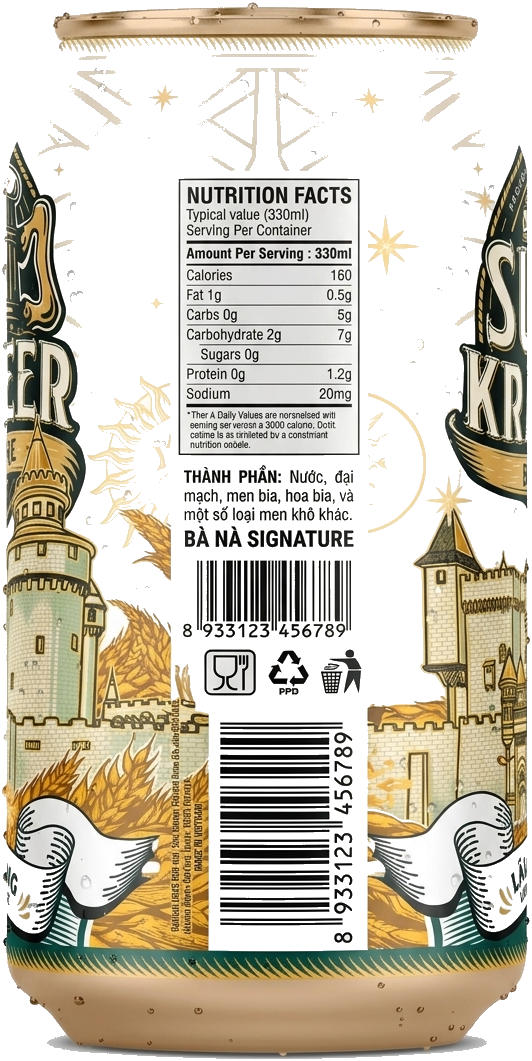
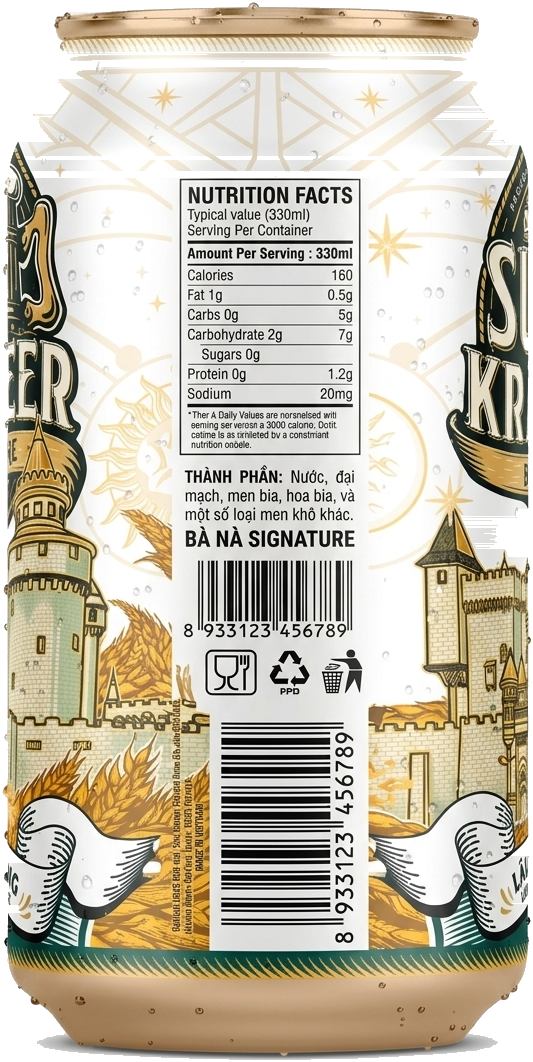
Sua dai nhoe khi lon xoay: va lo tach nen va lam min cho noi
HAI LOI, mot to mot nho.

1. Anh mat sau Lau Dai Mat Trang bi THUNG 37% dien tich lon. Than lon
   trang, mau gan het phong chup, nen phep tach nen an lem vao trong.
   Cho thung khong co mau de lay, ve ra thanh nhung vet ngang xe doc
   than lon — dung cai anh Khoa chup gui.

   Them buoc va lo (--dac): bong lon nhin ngang la mot khoi lien, moi
   diem nam giua mep trai va mep phai cua mot hang deu thuoc ve lon nen
   chi viec tra lai alpha. Con 1%, o may hang sat nap va day.

2. Dai noi hai anh bi boi ngang. Phan vo quanh goc +-pi/2 bi chup
   nghieng gan het co nen ca mot vong cung chi nam trong dam cot anh;
   xoay ra chinh dien thi dam cot ay phai trai kin may chuc cot man
   hinh, moi hang mot mau khac nhau bi keo dai ra thanh mot mo vach.

   Moi mat lon dung san mot ban da LAM MO DOC, chi dung o cho bi keo
   gian manh (do gian < 0,15). Lam mo doc truoc roi moi keo gian thi
   dai ay thanh mang mau chuyen muot, doc ra nhu phan vo dang cong
   khuat di. Nguong phai hep: de 0,4 thi giua luc quay ngang ca cai
   nhan cung bi lam mo chu khong rieng dai noi.

Do tren trinh duyet: doan bi boi ngang rong nhat trong ca cu quay, ca
ba loai, tu 15 cot xuong 0-1 cot tren be ngang 340. Toc do 11,6ms moi
khung ca luc quay lan luc lac.

Con lai: mot dai hep sat vien lon trong mot phan cu quay. Do la cho ca
hai anh deu khong co du lieu — muon het han thi can them anh chup o goc
90 va 270 do cho moi lon.

diff --git a/src/components/LonXoay.tsx b/src/components/LonXoay.tsx
@@ -37,9 +37,31 @@ const CHU_KY_LAC = 9000;
 /** Biên độ lắc, radian. Khoảng 23 độ mỗi bên. */
 const BIEN_LAC = 0.4;
 
+/** Bán kính làm mờ dọc, tính bằng hàng. Xem `diemMo`. */
+const BAN_KINH_MO = 6;
+/**
+ * Dưới mức giãn này thì bắt đầu chuyển sang bản đã làm mờ dọc.
+ *
+ * Để rộng tay (0,4) thì hỏng: giữa lúc lon quay qua ngang, độ giãn ở CHÍNH
+ * GIỮA thân lon cũng xuống quanh mức đó, nên cả cái nhãn bị làm mờ chứ không
+ * riêng dải nối — vừa xấu vừa tốn, mỗi khung mất thêm bốn phần nghìn giây.
+ * 0,15 chỉ bắt đúng chỗ vỏ lon bị chụp nghiêng gần hết cỡ.
+ */
+const NGUONG_GIAN = 0.15;
+
 /** Một mặt lon đã đặt vào khung chuẩn, kèm bóng lon của từng hàng. */
 interface Mat {
   diem: Uint8ClampedArray;
+  /**
+   * Bản đã làm mờ THEO CHIỀU DỌC, dùng riêng cho dải nối hai ảnh.
+   *
+   * Ở đó dăm cột ảnh phải trải kín mấy chục cột màn hình. Kéo giãn ngang thì
+   * màu của mỗi hàng bị bôi dài ra, mà hàng nào cũng khác hàng nào, nên hiện
+   * lên thành một mớ vạch ngang chồng chất — đúng cái dải nhoè nhìn thấy giữa
+   * thân lon. Làm mờ dọc trước rồi mới kéo giãn thì dải ấy thành một mảng màu
+   * chuyển mượt, đọc ra như phần vỏ đang cong khuất đi.
+   */
+  diemMo: Uint8ClampedArray;
   trai: Int16Array;
   phai: Int16Array;
   tam: Float32Array;
@@ -80,7 +102,35 @@ function doMat(ve: (g: CanvasRenderingContext2D) => void): Mat | null {
       ban[y] = (phai[y] + 1 - trai[y]) / 2;
     }
   }
-  return { diem, trai, phai, tam, ban };
+  // Làm mờ dọc: chỉ chạy một lần cho mỗi mặt lon.
+  const diemMo = new Uint8ClampedArray(diem.length);
+  for (let x = 0; x < KHUNG_W; x++) {
+    for (let y = 0; y < KHUNG_H; y++) {
+      let r = 0;
+      let g2 = 0;
+      let b = 0;
+      let n = 0;
+      const dau = Math.max(0, y - BAN_KINH_MO);
+      const cuoi = Math.min(KHUNG_H - 1, y + BAN_KINH_MO);
+      for (let k = dau; k <= cuoi; k++) {
+        const i = (k * KHUNG_W + x) * 4;
+        if (diem[i + 3] < 8) continue;
+        r += diem[i];
+        g2 += diem[i + 1];
+        b += diem[i + 2];
+        n++;
+      }
+      const d = (y * KHUNG_W + x) * 4;
+      if (n) {
+        diemMo[d] = r / n;
+        diemMo[d + 1] = g2 / n;
+        diemMo[d + 2] = b / n;
+      }
+      diemMo[d + 3] = diem[d + 3];
+    }
+  }
+
+  return { diem, diemMo, trai, phai, tam, ban };
 }
 
 /** Khung bao quanh phần đục của một ảnh, theo alpha. */
@@ -158,8 +208,14 @@ function layCot(
   y: number,
   xThuc: number,
   nen: number,
+  mo: number,
   ra: Float32Array,
 ): number {
+  // Chỉ đụng tới bản đã làm mờ khi thật sự cần: đó là một mảng gần một megabyte
+  // nữa, đọc vào cả lúc không dùng là thừa mà còn đẩy bộ nhớ đệm.
+  const diem = m.diem;
+  const diemMo = mo > 0 ? m.diemMo : m.diem;
+  const ro = 1 - mo;
   const dong = y * KHUNG_W;
   const mepT = m.trai[y];
   const mepP = m.phai[y];
@@ -178,10 +234,10 @@ function layCot(
       if (x < mepT) x = mepT;
       else if (x > mepP) x = mepP;
       const i = (dong + x) * 4;
-      const a = (m.diem[i + 3] / 255) * (k === 0 ? 1 - le : le);
-      ra[0] += m.diem[i] * a;
-      ra[1] += m.diem[i + 1] * a;
-      ra[2] += m.diem[i + 2] * a;
+      const a = (diem[i + 3] / 255) * (k === 0 ? 1 - le : le);
+      ra[0] += (diem[i] * ro + diemMo[i] * mo) * a;
+      ra[1] += (diem[i + 1] * ro + diemMo[i + 1] * mo) * a;
+      ra[2] += (diem[i + 2] * ro + diemMo[i + 2] * mo) * a;
       tong += a;
     }
   } else {
@@ -191,10 +247,10 @@ function layCot(
       if (x < mepT) x = mepT;
       else if (x > mepP) x = mepP;
       const i = (dong + x) * 4;
-      const a = m.diem[i + 3] / 255;
-      ra[0] += m.diem[i] * a;
-      ra[1] += m.diem[i + 1] * a;
-      ra[2] += m.diem[i + 2] * a;
+      const a = diem[i + 3] / 255;
+      ra[0] += (diem[i] * ro + diemMo[i] * mo) * a;
+      ra[1] += (diem[i + 1] * ro + diemMo[i + 1] * mo) * a;
+      ra[2] += (diem[i + 2] * ro + diemMo[i + 2] * mo) * a;
       tong += a;
     }
     tong /= soTia;
@@ -249,8 +305,11 @@ function veLon(kho: Kho, phi: number, bang: BangChieu, ra: ImageData) {
       const d = (dong + x) * 4;
       const doNen = nen[i];
 
-      let aTruoc = 0;
-      if (w <= 0 && doNen < 1.5) {
+      // Mức chuyển sang bản làm mờ dọc: 0 là dùng ảnh gốc, 1 là mờ hẳn.
+      const mo =
+        doNen >= NGUONG_GIAN ? 0 : (NGUONG_GIAN - doNen) / NGUONG_GIAN;
+
+      if (w <= 0 && doNen < 1.5 && mo === 0) {
         // Đường đi của phần lớn điểm ảnh: nhãn thuần, không nén. Viết thẳng ra
         // đây thay vì gọi `layCot` — hơn trăm nghìn lượt gọi mỗi khung hình,
         // riêng chi phí gọi hàm đã đủ tụt mất vài khung mỗi giây.
@@ -276,13 +335,41 @@ function veLon(kho: Kho, phi: number, bang: BangChieu, ra: ImageData) {
         out[d + 3] = tong * phu * 255;
         continue;
       }
+      if (w >= 1 && coSau && doNen < 1.5 && mo === 0) {
+        // Mặt sau thuần. Giữa lúc quay thì nửa lon là mặt sau, nên nhánh này
+        // cũng phải viết thẳng ra như nhánh mặt trước, không thì mất một nửa
+        // số điểm ảnh vào chi phí gọi hàm.
+        const xT = cxS - rS * u[i];
+        const san = Math.floor(xT);
+        const le = xT - san;
+        let xa = san;
+        if (xa < sau.trai[y]) xa = sau.trai[y];
+        else if (xa > sau.phai[y]) xa = sau.phai[y];
+        let xb = san + 1;
+        if (xb < sau.trai[y]) xb = sau.trai[y];
+        else if (xb > sau.phai[y]) xb = sau.phai[y];
+        const ia = (dong + xa) * 4;
+        const ib = (dong + xb) * 4;
+        const aa = (sau.diem[ia + 3] / 255) * (1 - le);
+        const ab = (sau.diem[ib + 3] / 255) * le;
+        const tong = aa + ab;
+        if (tong <= 0) continue;
+        const f = heSoSau[i] / tong;
+        out[d] = (sau.diem[ia] * aa + sau.diem[ib] * ab) * f;
+        out[d + 1] = (sau.diem[ia + 1] * aa + sau.diem[ib + 1] * ab) * f;
+        out[d + 2] = (sau.diem[ia + 2] * aa + sau.diem[ib + 2] * ab) * f;
+        out[d + 3] = tong * phu * 255;
+        continue;
+      }
+
+      let aTruoc = 0;
       if (w < 1) {
-        aTruoc = layCot(truoc, y, cx + r * u[i], doNen, mauTruoc);
+        aTruoc = layCot(truoc, y, cx + r * u[i], doNen, mo, mauTruoc);
       }
       let aSau = 0;
       if (w > 0 && coSau) {
         // Ảnh mặt sau là lon đã quay nửa vòng, nên đổi dấu vị trí ngang.
-        aSau = layCot(sau, y, cxS - rS * u[i], doNen, mauSau);
+        aSau = layCot(sau, y, cxS - rS * u[i], doNen, mo, mauSau);
       }
 
       const gop = aTruoc * (1 - w) + aSau * w;

diff --git a/src/lib/lonXoay.ts b/src/lib/lonXoay.ts
@@ -155,9 +155,14 @@ export interface BangChieu {
   /**
    * Độ nén tại chỗ: một điểm ảnh trên màn hình gánh bao nhiêu điểm ảnh nguồn.
    *
-   * Càng ra mép lon càng nén. Không tính tới thì chỗ nén chỉ lấy đúng một điểm
-   * nguồn, bỏ qua những điểm bên cạnh — sinh ra vệt răng cưa nhấp nháy trong
-   * lúc lon quay. Biết độ nén thì lấy trung bình đúng chừng ấy điểm.
+   * Lớn hơn 1 là NÉN — hay gặp ở sát mép lon. Không tính tới thì chỗ nén chỉ
+   * lấy đúng một điểm nguồn, bỏ qua những điểm bên cạnh, sinh vệt răng cưa
+   * nhấp nháy lúc lon quay. Biết độ nén thì lấy trung bình đúng chừng ấy điểm.
+   *
+   * Nhỏ hơn 1 là GIÃN, và giãn rất mạnh ở đúng chỗ nối hai ảnh: phần vỏ quanh
+   * góc ±π/2 bị chụp nghiêng gần hết cỡ nên cả một vòng cung chỉ nằm gọn trong
+   * dăm cột ảnh; xoay ra chính diện thì dăm cột ấy phải trải kín mấy chục cột
+   * màn hình. Xem `veLon` để biết cách làm dịu chỗ đó.
    */
   nen: Float32Array;
   /** Độ sáng theo vị trí TRÊN MÀN HÌNH. */
@@ -224,7 +229,9 @@ export function bangChieu(phi: number, ra: BangChieu): BangChieu {
         : cosBeta < 1e-6
           ? TRAN_NEN
           : Math.abs(cp - (s * sp) / cosBeta);
-    ra.nen[i] = dao > TRAN_NEN ? TRAN_NEN : dao < 1 ? 1 : dao;
+    // Chỉ chặn đầu trên. Giữ nguyên phần nhỏ hơn 1 vì đó chính là tín hiệu
+    // cho biết chỗ nào đang bị kéo giãn.
+    ra.nen[i] = dao > TRAN_NEN ? TRAN_NEN : dao;
   }
   return ra;
 }

diff --git a/src/lib/__tests__/lonXoay.test.ts b/src/lib/__tests__/lonXoay.test.ts
@@ -168,11 +168,13 @@ lechF = Math.max(lechF, Math.abs(b0.sangManHinh[i] / b0.sangNhan[i] - 1));
   dung("he so hoa luon trong 0..1", [...b1.hoa].every((h) => h >= 0 && h <= 1));
   dung("co danh dau mat sau", [...b1.sau].some((v) => v === 1));
   dung("van con danh dau mat truoc", [...b1.sau].some((v) => v === 0));
-  // Do nen phai >= 1 va bi chan tran, khong thi vong lay mau chay mai o mep.
+  // Do nen chi bi chan dau tren; phan nho hon 1 phai giu vi do la tin hieu
+  // cho biet cho nao dang bi keo gian.
   dung(
-    "do nen nam trong 1..TRAN_NEN",
-    [...b1.nen].every((v) => v >= 1 && v <= TRAN_NEN),
+    "do nen duong va bi chan tran",
+    [...b1.nen].every((v) => v >= 0 && v <= TRAN_NEN),
   );
+  dung("xoay thi co cho bi keo gian manh", [...b1.nen].some((v) => v < 0.35));
   // Dung yen thi anh khong bi nen o dau ca, vi moi cot lay dung cot cua no.
   dung(
     "phi=0: khong nen o bat cu dau",

diff --git a/scripts/tach-nen-anh-lon.py b/scripts/tach-nen-anh-lon.py
@@ -307,6 +307,43 @@ def tach_nen(w, h, px, nguong_nen=NGUONG_NEN, nguong_vien=NGUONG_VIEN):
     return sum(la_nen)
 
 
+def va_lo(w, h, px, ti_toi_thieu=0.12):
+    """
+    Vá lại những lỗ mà phép tách nền ăn nhầm vào trong thân lon.
+
+    Thân lon trắng (Lâu Đài Mặt Trăng) có màu gần hệt phông chụp, nên mọi cách
+    tách nền đều ăn lem vào trong, để lại lon thủng lỗ chỗ. Chỗ thủng khi vẽ ra
+    thì không có màu để lấy, hiện lên thành những vệt ngang xé dọc thân lon.
+
+    Bóng lon nhìn ngang là một khối liền: mọi điểm nằm GIỮA mép trái và mép
+    phải của một hàng đều thuộc về lon. Nên chỉ việc trả lại alpha cho chúng.
+
+    Chỉ vá những hàng đã đục sẵn ít nhất `ti_toi_thieu` bề ngang, để một vài
+    điểm nhiễu sót lại ngoài nền không kéo theo cả một vệt ngang.
+    """
+    va = 0
+    for y in range(h):
+        trai = phai = -1
+        duc = 0
+        for x in range(w):
+            if px[(y * w + x) * 4 + 3] > 24:
+                if trai < 0:
+                    trai = x
+                phai = x
+                duc += 1
+        if trai < 0:
+            continue
+        rong = phai - trai + 1
+        if duc < rong * ti_toi_thieu:
+            continue
+        for x in range(trai, phai + 1):
+            i = (y * w + x) * 4
+            if px[i + 3] <= 24:
+                px[i + 3] = 255
+                va += 1
+    return va
+
+
 def cat_sat(w, h, px):
     """Cắt bỏ phần trong suốt thừa quanh lon, chừa LE pixel."""
     t, d, tr, ph = h, -1, w, -1
@@ -354,7 +391,7 @@ def main(doi_so):
     if not cac_tep:
         raise SystemExit(
             "Cách dùng: python scripts/tach-nen-anh-lon.py "
-            "[--lat] [--loang|--mohinh [--saiso=N] [--lech=N]] "
+            "[--lat] [--dac] [--loang|--mohinh [--saiso=N] [--lech=N]] "
             "[--nguong=N] [--vien=N] <tệp.png>..."
         )
     loang = "--loang" in doi_so
@@ -373,11 +410,14 @@ def main(doi_so):
             xoa = tach_nen_loang(w, h, px, sai_so, lech_mau)
         else:
             xoa = tach_nen(w, h, px, nen, vien)
+        vaLo = va_lo(w, h, px) if "--dac" in doi_so else 0
         nw, nh, moi = cat_sat(w, h, px)
         if lat:
             moi = lat_ngang(nw, nh, moi)
         ghi_png(tep, nw, nh, moi)
         them = ", đã lật ngang" if lat else ""
+        if vaLo:
+            them += f", vá {vaLo} điểm thủng"
         print(f"{tep}: {w}x{h} -> {nw}x{nh}, xóa {xoa * 100 // (w * h)}% nền{them}")
 
 
